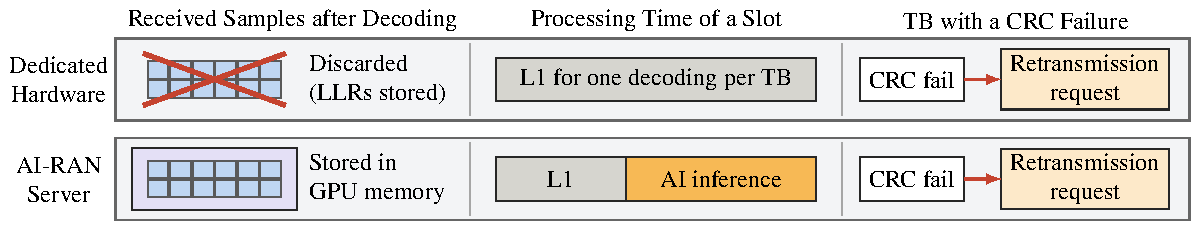
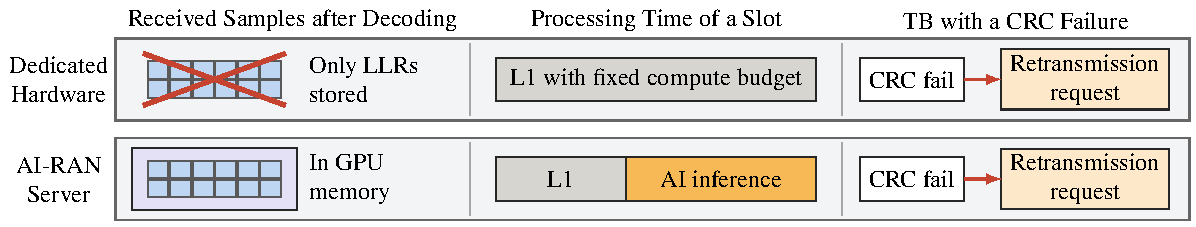
Link adaptation under interference: decode_harq.py stores the SIR of each slot when the generator recorded one, harq_mcs.sh takes IRC, NRX_ENGINE, SMALL_ENGINE and OLLA_OPTS as harq_ir.sh does, and olla.py simulates the MMSE-IRC structures and, with --sir-bins, one outer loop per SNR point and SIR g

diff --git a/src/sim/olla.py b/src/sim/olla.py
@@ -9,7 +9,12 @@ the pointer down by delta after a first-transmission failure and up by delta * t
 scheduler sees before asking for a retransmission: the conventional receiver decoded it, or, with recovery, recovery
 did.  A block that fails is retransmitted with IR HARQ up to the traced number of transmissions.
 Goodput = delivered bits / transmissions used (bits per uplink allocation).
-usage: olla.py --root results/<name> --output OUT.json [--targets 0.1,0.03,0.01 --steps 20000 --delta 0.25]
+With interferers, --sir-bins E0,E1,... runs one outer loop per SNR point and per group of slots whose signal-to-
+interference ratio (first transmission, stored by decode_harq.py) lies in [E_i, E_i+1): link adaptation acts per user,
+and a user's interference follows from where it and the neighbor cells' users are.  With decode_harq.py --irc the
+MMSE-IRC structures (ai_and_ran_irc, ours_irc) are simulated too.
+usage: olla.py --root results/<name> --output OUT.json [--targets 0.1,0.03,0.01 --steps 20000 --delta 0.25
+               --sir-bins -5,0,5,10,15,25]
 """
 
 from __future__ import annotations
@@ -37,12 +42,16 @@ def per_mcs(root: Path):
     for m, fs in sorted(groups.items()):
         fs.sort(key=lambda f: int(re.search(r"_c(\d+)\.npz$", f).group(1)))
         good, point, corr, change, gain, total, meta = load(fs)
+        z = [np.load(f) for f in fs]
+        sir = np.concatenate([x["sir"][:, 0] for x in z]) if all("sir" in x.files for x in z) else None
         tb_bits = 8 * int(json.loads(str(np.load(fs[0])["meta"]))["tb_bytes"])
         flat = {k: v.reshape(-1) for k, v in good.items()}
         p = plans(flat, total)
-        out[m] = {"point": np.repeat(point, good["conv_t0"].shape[1]), "tb_bits": tb_bits, "total": total,
-                  "first": {s: p[s][0] | p[s][1] for s in STRUCTURES},
-                  "n_tx": {s: transmissions(*p[s], total) for s in STRUCTURES}}
+        users = good["conv_t0"].shape[1]
+        out[m] = {"point": np.repeat(point, users), "tb_bits": tb_bits, "total": total,
+                  "sir": None if sir is None else np.repeat(sir, users),
+                  "first": {s: p[s][0] | p[s][1] for s in p},
+                  "n_tx": {s: transmissions(*p[s], total) for s in p}}
     return out
 
 
@@ -85,29 +94,48 @@ def main() -> None:
     parser.add_argument("--targets", default="0.1,0.03,0.01")
     parser.add_argument("--steps", type=int, default=20000)
     parser.add_argument("--delta", type=float, default=0.25)
+    parser.add_argument("--sir-bins", default="", help="comma list of SIR edges in dB: one outer loop per group")
     a = parser.parse_args()
     tab = per_mcs(a.root)
     ladder = sorted(tab)
     points = sorted(set(tab[ladder[0]]["point"].tolist()))
-    out = {"root": str(a.root), "ladder": ladder, "points": points, "results": {}}
+    structures = list(tab[ladder[0]]["first"])
+    out = {"root": str(a.root), "ladder": ladder, "points": points, "structures": structures, "results": {}}
     rng = np.random.default_rng(5)
+    edges = [float(e) for e in a.sir_bins.split(",")] if a.sir_bins else []
+    assert not edges or tab[ladder[0]]["sir"] is not None, "--sir-bins needs decode_harq.py outputs with the SIR"
+    groups = [(None, None)] if not edges else list(zip(edges[:-1], edges[1:]))
     for q in points:
-        sel = tab[ladder[0]]["point"] == q
-        for target in [float(t) for t in a.targets.split(",")]:
-            row = {s: simulate(tab, ladder, sel, s, target, a.steps, a.delta, rng) for s in STRUCTURES}
-            base = row["ai_and_ran"]["goodput_bits_per_tx"]
-            for s in STRUCTURES:
-                row[s]["goodput_vs_ai_and_ran"] = row[s]["goodput_bits_per_tx"] / max(1e-9, base)
-            out["results"][f"snr{q:g}_target{target:g}"] = row
+        for lo, hi in groups:
+            sel = tab[ladder[0]]["point"] == q
+            if lo is not None:
+                sir = tab[ladder[0]]["sir"]
+                sel = sel & (sir >= lo) & (sir < hi)
+                if sel.sum() < 32:
+                    continue
+            for target in [float(t) for t in a.targets.split(",")]:
+                row = {s: simulate(tab, ladder, sel, s, target, a.steps, a.delta, rng) for s in structures}
+                for s, base in ((s, "ai_and_ran_irc" if s.endswith("_irc") else "ai_and_ran") for s in structures):
+                    row[s]["goodput_vs_base"] = row[s]["goodput_bits_per_tx"] / max(1e-9, row[base]["goodput_bits_per_tx"])
+                    row[s]["goodput_vs_ai_and_ran"] = row[s]["goodput_bits_per_tx"] / max(1e-9, row["ai_and_ran"]["goodput_bits_per_tx"])
+                row["share_of_point"] = float(sel.sum()) / max(1, int((tab[ladder[0]]["point"] == q).sum()))
+                key = f"snr{q:g}_target{target:g}" + ("" if lo is None else f"_sir{lo:g}to{hi:g}")
+                out["results"][key] = row
     a.output.write_text(json.dumps(out, indent=2))
-    print("| SNR | target | AI-and-RAN MCS / goodput | ours MCS / goodput (x) | AI-for-RAN goodput (x) |")
-    print("|---|---|---|---|---|")
+    irc = "ours_irc" in structures
+    print("| SNR | SIR group | share | target | AI-and-RAN MCS / goodput | ours MCS / goodput (x) | AI-for-RAN goodput (x) |"
+          + (" IRC MCS / goodput | ours with IRC MCS / goodput (x vs IRC) |" if irc else ""))
+    print("|---|---|---|---|---|---|---|" + ("---|---|" if irc else ""))
     for k, r in out["results"].items():
-        q, t = re.match(r"snr(.+)_target(.+)", k).groups()
-        print(f"| {q} | {t} | {r['ai_and_ran']['mean_mcs']:.1f} / {r['ai_and_ran']['goodput_bits_per_tx']:.0f} | "
-              f"{r['ours']['mean_mcs']:.1f} / {r['ours']['goodput_bits_per_tx']:.0f} ({r['ours']['goodput_vs_ai_and_ran']:.2f}) | "
-              f"{r['ai_for_ran']['goodput_bits_per_tx']:.0f} ({r['ai_for_ran']['goodput_vs_ai_and_ran']:.2f}) |")
-
+        q, t, g = re.match(r"snr(.+?)_target([^_]+)(?:_sir(.+))?$", k).groups()
+        line = (f"| {q} | {g or 'all'} | {r['share_of_point']:.2f} | {t} | {r['ai_and_ran']['mean_mcs']:.1f} / "
+                f"{r['ai_and_ran']['goodput_bits_per_tx']:.0f} | {r['ours']['mean_mcs']:.1f} / {r['ours']['goodput_bits_per_tx']:.0f} "
+                f"({r['ours']['goodput_vs_ai_and_ran']:.2f}) | {r['ai_for_ran']['goodput_bits_per_tx']:.0f} "
+                f"({r['ai_for_ran']['goodput_vs_ai_and_ran']:.2f}) |")
+        if irc:
+            line += (f" {r['ai_and_ran_irc']['mean_mcs']:.1f} / {r['ai_and_ran_irc']['goodput_bits_per_tx']:.0f} | "
+                     f"{r['ours_irc']['mean_mcs']:.1f} / {r['ours_irc']['goodput_bits_per_tx']:.0f} ({r['ours_irc']['goodput_vs_base']:.2f}) |")
+        print(line)
 
 if __name__ == "__main__":
     main()

diff --git a/figures/paper/src/bg_server.tex b/figures/paper/src/bg_server.tex
@@ -1,7 +1,8 @@
 % Figure 4: what a base station has when the CRC of a TB fails, on dedicated hardware and on an AI-RAN server.
-% Dedicated hardware discards the received samples after decoding and sizes its computation for one decoding per TB.
-% An AI-RAN server stores the samples in GPU memory and leaves GPU time beyond the L1 to AI inference (the RAN peaks at
-% 40% of one GPU in an NVIDIA proof of concept).  Both request a retransmission for the failed TB: the figure shows
+% Purpose-built baseband hardware runs the L1 within a fixed compute budget (Ericsson Technology Review 2026) and keeps
+% only the combined LLRs of a failed TB for HARQ (DPDK bbdev, Lee et al. TCOM'15).  On an AI-RAN server the fronthaul
+% data is copied directly to GPU memory (NVIDIA cuPHY Components), and the GPU has time beyond the L1 for AI inference
+% (the RAN peaks at 40% of one GPU in an NVIDIA proof of concept).  Both request a retransmission for the failed TB: the figure shows
 % the state before Reverb (no component of Reverb appears before the design section).
 % Each column has its content centred on the same x in both rows; the bars of the middle column are drawn as exact
 % rectangles that end 0.3 cm before the column line.
@@ -36,11 +37,11 @@
     } }
   }
   \draw[failc, line width=1.4pt] (\cx-0.82, 0.3) -- (\cx+0.82, -0.3) (\cx-0.82, -0.3) -- (\cx+0.82, 0.3);
-  \node[tag, align=left, anchor=west] at (\cx+1.05, 0) {Discarded\\(LLRs stored)};
-  \node[tag, align=left, anchor=west] at (\cx+1.05, -1.15) {Stored in\\GPU memory};
+  \node[tag, align=left, anchor=west] at (\cx+1.05, 0) {Only LLRs\\stored};
+  \node[tag, align=left, anchor=west] at (\cx+1.05, -1.15) {In GPU\\memory};
   % time of a slot: one decoding / L1 and AI inference
   \draw[black!85, line width=0.4pt, fill=l1c] (\bl, -0.25) rectangle (\br, 0.25);
-  \node[tag] at ({(\bl+\br)/2}, 0) {L1 for one decoding per TB};
+  \node[tag] at ({(\bl+\br)/2}, 0) {L1 with fixed compute budget};
   \draw[black!85, line width=0.4pt, fill=l1c] (\bl, -1.4) rectangle (7.1, -0.9);
   \draw[black!85, line width=0.4pt, fill=aic] (7.1, -1.4) rectangle (\br, -0.9);
   \node[tag] at ({(\bl+7.1)/2}, -1.15) {L1};

diff --git a/src/decode_harq.py b/src/decode_harq.py
@@ -170,6 +170,7 @@ def main() -> None:
     order = np.random.default_rng(int(meta.get("shuffle_seed", 73001))).permutation(len(info["point"]))[:count]
     point, corr, change = info["point"][order], info["corr"][order], info["change"][order]
     gain = info["gain"][order]
+    extra = {"sir": info["sir"][order]} if "sir" in info.files else {}   # per slot and transmission, with interferers
     assert np.allclose(point, np.asarray(meta["esno_db"][:count]), atol=1e-3), "slot order differs from the dataset"
 
     stream = cp.cuda.Stream(non_blocking=True)
@@ -255,7 +256,7 @@ def main() -> None:
     args.output.parent.mkdir(parents=True, exist_ok=True)
     np.savez(args.output.with_suffix(".npz"), point=point, corr=corr, change=change, gain=gain, total=total,
              meta=json.dumps({"set": args.set, "mcs": args.mcs, "rvs": rvs, "tb_bytes": int(tb), "generator": gmeta,
-                              "retx_alone": alone}), cbfail_t0=cbfail, **good)
+                              "retx_alone": alone}), cbfail_t0=cbfail, **extra, **good)
     args.output.write_text(json.dumps(rep, indent=2))
     print(f"set {args.set} MCS {args.mcs}: {count} slots, similarity median {rep['corr_median']:.2f}, "
           f"separable vs cuPHY first {rep['check']['sep_vs_conv_first']}")
